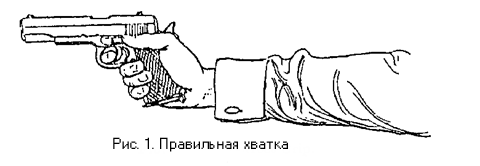
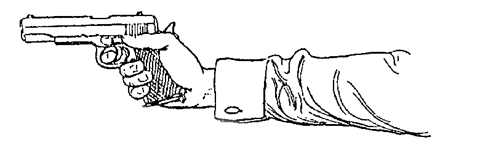
Images cached?

Changed region(s): [[0.2188, 0.8133, 0.625, 0.9036], [0.4375, 0.6928, 0.5312, 0.753], [0.2812, 0.6325, 0.3125, 0.6627]]

diff --git a/source/fount/03-training-preliminary.rst b/source/fount/03-training-preliminary.rst
@@ -57,4 +57,61 @@ safety-catch on the left-hand side of the pistol. He
 should make it perfectly clear that the pistol, when
 carried on service, should have a charged magazine
 inserted but that *it should never be carried with a
-round in the breech*.
+round in the breech*. He should show that when it
+is desired to fire all that has to be done is to load
+in the manner described in para. 2 (c). He should
+then proceed to demonstrate the extreme speed with
+which it is possible to draw, load and fire by this
+method, which compares more than favourably with
+the alternative of drawing, pulling down the
+safety-catch and firing a round already in the breech. It
+should be shown, too, that the first method (with the
+breech empty) eliminates the fumbling and uncertainty
+inherent in the use of the safety-catch.
+
+With this preface, all is now ready for the course
+to commence.
+
+1. One Hour's "Dry" Practice
+----------------------------
+
+a. On taking the pistol in the hand, we recommend,
+   as an aid to accurate pointing, that the
+   thumb be fully extended and pointing forward
+   in the same plane as the pistol barrel (Fig. 1).
+
+.. figure:: ../_static/CorrectGrip.png
+
+   Fig. 1.---The Correct Grip.
+
+b. Stand square with the target, gripping the
+   pistol now as if it weighed twenty or thirty
+   pounds, pistol arm straight, rigid and across
+   the body (Fig. 2). Bend the hand slightly to
+   the right, to bring the pistol exactly in line
+   with the vertical centre-line of the body
+   (Fig. 3).
+c. Raise the pistol (pistol arm still rigidly straight
+   and pivoting from the soulder), keeping it
+   exactly in line with the vertical centre-line
+   of the body until it covers the aiming mark
+   on the target (Fig. 4). Both eyes are to be
+   kept open and the recruit simply sees the
+   target surrounding his pistol, making no
+   attempt to look at or line up the sights, or
+   to let the master-eye control the aim.
+d. Immediately the aiming mark is covered, pull
+   the trigger and lower the pistol to the position
+   shown in Fig. 3 (the "ready" position).
+
+Notes
+^^^^^
+
+Paragraphs (b) and (c) in conjunction with Fig. 4
+reveal a deliberate attempt to eliminate *conscious*
+control by the master-eye. Instead, the aim is
+controlled by the combination of the square stance
+and the manner of holding the pistol, *i.e.* in the
+centre of the body, with the hand bent over to the
+right, elements which were employed unconsciously
+in the experiment on page 6.
